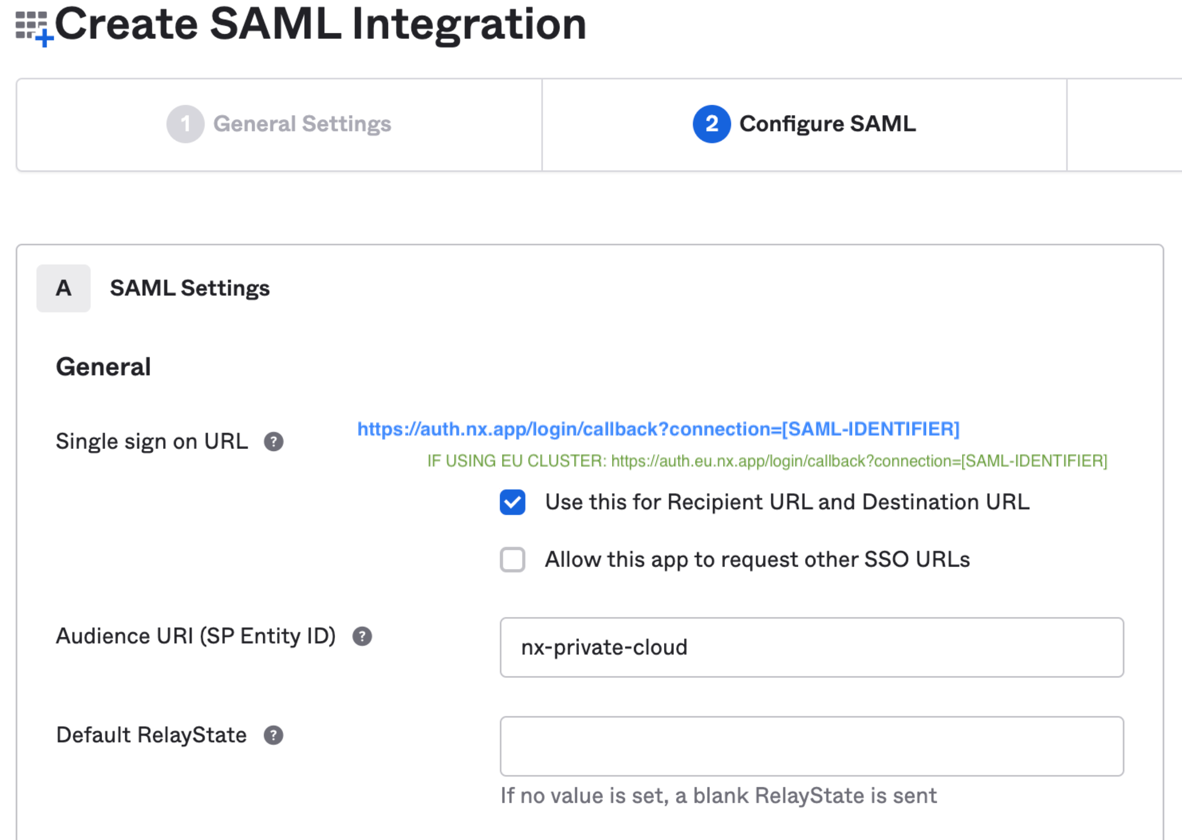
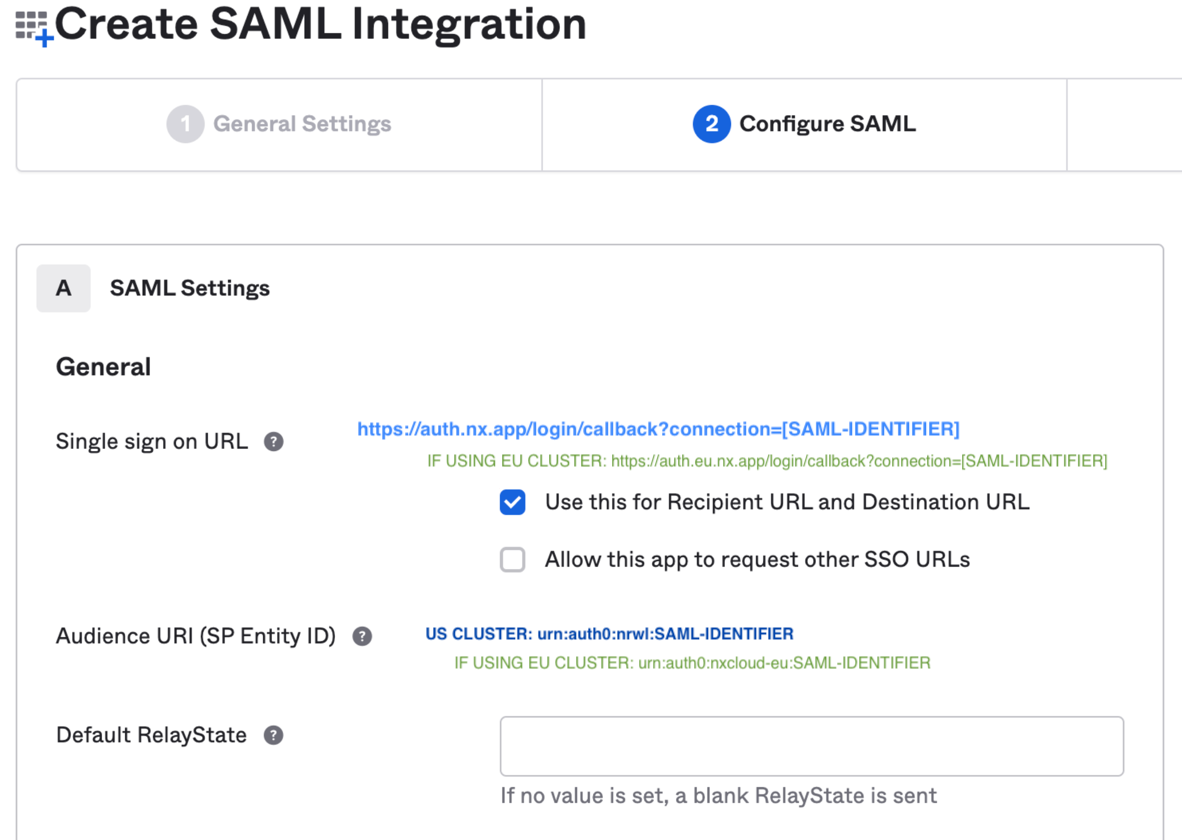
docs(nx-cloud): saml auth fix audience URI for eu cluster

Changed region(s): [[0.3655, 0.7429, 0.7919, 0.8048]]

diff --git a/docs/nx-cloud/private/auth-saml-managed.md b/docs/nx-cloud/private/auth-saml-managed.md
@@ -1,4 +1,4 @@
-# SAML Auth
+# SAML Auth Managed Offering
 
 ## Okta Set-up
 
@@ -17,8 +17,12 @@ You'll be entering it in the instructions below.
 
 3. On the Next page, configure it as below:
 
-   1. The Single Sign On URL needs to be: 2. If using the main-US cluster: `https://auth.nx.app/login/callback?connection=SAML-IDENTIFIER` 3. If using the EU cluster: `https://auth.eu.nx.app/login/callback?connection=SAML-IDENTIFIER`
+   1. The Single Sign On URL needs to be:
+      - If using the main-US cluster: `https://auth.nx.app/login/callback?connection=SAML-IDENTIFIER`
+      - If using the EU cluster: `https://auth.eu.nx.app/login/callback?connection=SAML-IDENTIFIER`
    2. The Audience should be `urn:auth0:nrwl:SAML-IDENTIFIER`
+      - If using the main-US cluster: `urn:auth0:nrwl:SAML-IDENTIFIER`
+      - If using the EU cluster: `urn:auth0:nxcloud-eu:SAML-IDENTIFIER`
 
    ![Okta 4](/nx-cloud/private/images/saml/okta_4_public.png)
 
